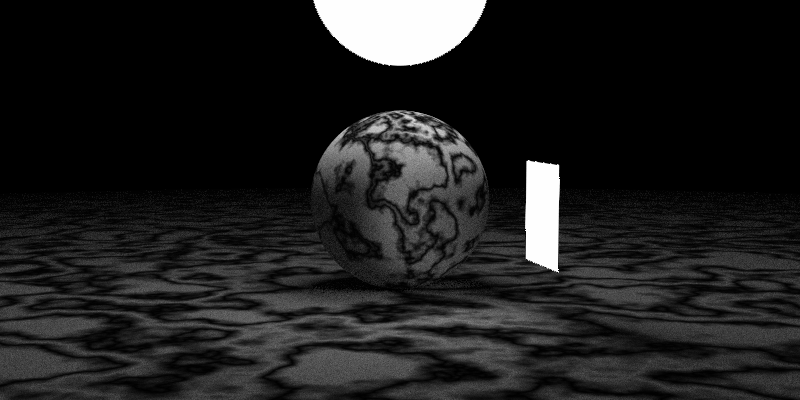
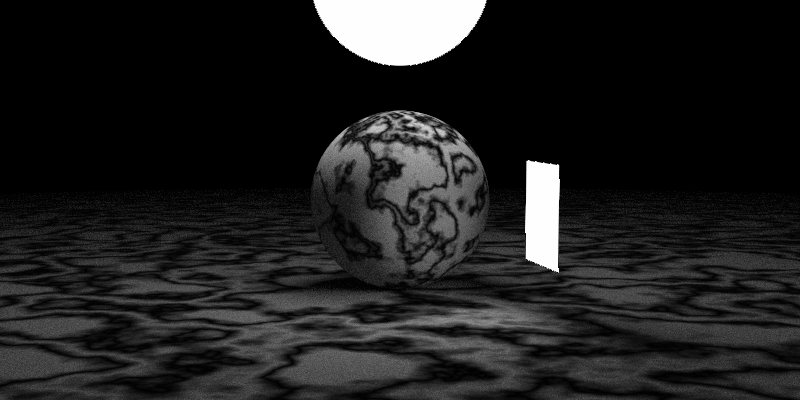
fix: transform geometry

Changed region(s): [[0.5, 0.42, 0.5938, 0.63], [0.5625, 0.78, 0.6562, 0.81]]

diff --git a/ray-tracing-core/include/math/rectangle.h b/ray-tracing-core/include/math/rectangle.h
@@ -13,120 +13,120 @@
 
 namespace ray_tracing_core::math
 {
-	class Rectangle
-	{
-	public:
-		enum class Orientation : uint32_t
-		{
-			YZ=0, XZ=1, XY=2
-		};
+    class Rectangle
+    {
+    public:
+        enum class Orientation : uint32_t
+        {
+            YZ=0, XZ=1, XY=2
+        };
 
-		Orientation orientation;
-		Distance k;
-		DistanceRange rangeA;
-		DistanceRange rangeB;
+        Orientation orientation;
+        Distance k;
+        DistanceRange rangeA;
+        DistanceRange rangeB;
 
-		inline static Rectangle new_rectangle(Orientation orientation, Distance k, const Point2D& a, const Point2D& b);
-		inline AxisAlignedBoundingBox bounding_box(void) const;
-		inline bool hit(const Ray& ray, const DistanceRange& distance_range, HitPoint& hit_point) const;
-		inline Vector3D normal_vector() const;
-		inline core::TextureCoordinate texture_coordinates(const Point3D & point_in_rectangle) const;
-		inline math::Distance area() const;
-		inline math::Vector3D random_point() const;
-	};
+        inline static Rectangle new_rectangle(Orientation orientation, Distance k, const Point2D& a, const Point2D& b);
+        inline AxisAlignedBoundingBox bounding_box(void) const;
+        inline bool hit(const Ray& ray, const DistanceRange& distance_range, HitPoint& hit_point) const;
+        inline Vector3D normal_vector() const;
+        inline core::TextureCoordinate texture_coordinates(const Point3D & point_in_rectangle) const;
+        inline math::Distance area() const;
+        inline math::Vector3D random_point() const;
+    };
 
-	Rectangle Rectangle::new_rectangle(Orientation orientation, Distance k, const Point2D& a, const Point2D& b)
-	{
-		return Rectangle
-		{
-			.orientation = orientation,
-			.k = k,
-			.rangeA = { std::min(a.x, b.x), std::max(a.x, b.x) },
-			.rangeB = { std::min(a.y, b.y), std::max(a.y, b.y) },
-		};
-	}
+    Rectangle Rectangle::new_rectangle(Orientation orientation, Distance k, const Point2D& a, const Point2D& b)
+    {
+        return Rectangle
+                {
+                        .orientation = orientation,
+                        .k = k,
+                        .rangeA = { std::min(a.x, b.x), std::max(a.x, b.x) },
+                        .rangeB = { std::min(a.y, b.y), std::max(a.y, b.y) },
+                };
+    }
 
-	AxisAlignedBoundingBox Rectangle::bounding_box(void) const
-	{
-		auto& [a0, a1] = rangeA;
-		auto& [b0, b1] = rangeB;
-		switch (orientation)
-		{
-		default:
-		case Orientation::XY: return AxisAlignedBoundingBox::new_box(Point3D{ a0, b0, k - 0.0001 }, Point3D{ a1, b1, k + 0.0001 });
-		case Orientation::YZ: return AxisAlignedBoundingBox::new_box(Point3D{ k - 0.0001, a0, b0 }, Point3D{ k + 0.0001, a1, b1 });
-		case Orientation::XZ: return AxisAlignedBoundingBox::new_box(Point3D{ a0, k - 0.0001, b0 }, Point3D{ a1, k + 0.0001, b1 });
-		}
-	}
+    AxisAlignedBoundingBox Rectangle::bounding_box(void) const
+    {
+        auto& [a0, a1] = rangeA;
+        auto& [b0, b1] = rangeB;
+        switch (orientation)
+        {
+            default:
+            case Orientation::XY: return AxisAlignedBoundingBox::new_box(Point3D{ a0, b0, k - 0.0001 }, Point3D{ a1, b1, k + 0.0001 });
+            case Orientation::YZ: return AxisAlignedBoundingBox::new_box(Point3D{ k - 0.0001, a0, b0 }, Point3D{ k + 0.0001, a1, b1 });
+            case Orientation::XZ: return AxisAlignedBoundingBox::new_box(Point3D{ a0, k - 0.0001, b0 }, Point3D{ a1, k + 0.0001, b1 });
+        }
+    }
 
-	bool Rectangle::hit(const Ray& ray, const DistanceRange& distance_range, HitPoint& hit_point) const
-	{
-		auto [from, to] = distance_range;
-		if (ray.direction[(uint32_t)orientation] == 0)
-			return false;
-		auto t = (k - ray.origin[(uint32_t)orientation]) / ray.direction[(uint32_t)orientation];
-		if (t < from || t > to)
-			return false;
+    bool Rectangle::hit(const Ray& ray, const DistanceRange& distance_range, HitPoint& hit_point) const
+    {
+        auto [from, to] = distance_range;
+        if (ray.direction[(uint32_t)orientation] == 0)
+            return false;
+        auto t = (k - ray.origin[(uint32_t)orientation]) / ray.direction[(uint32_t)orientation];
+        if (t < from || t > to)
+            return false;
 
-		auto& [a0, a1] = rangeA;
-		auto& [b0, b1] = rangeB;
-		uint32_t iA = (orientation == Orientation::YZ) ? 1 : 0;
-		uint32_t iB = (orientation == Orientation::XY) ? 1 : 2;
-		auto a = ray.origin[iA] + t * ray.direction[iA];
-		auto b = ray.origin[iB] + t * ray.direction[iB];
-		if (a < a0 || a > a1 || b < b0 || b > b1)
-			return false;
+        auto& [a0, a1] = rangeA;
+        auto& [b0, b1] = rangeB;
+        uint32_t iA = (orientation == Orientation::YZ) ? 1 : 0;
+        uint32_t iB = (orientation == Orientation::XY) ? 1 : 2;
+        auto a = ray.origin[iA] + t * ray.direction[iA];
+        auto b = ray.origin[iB] + t * ray.direction[iB];
+        if (a < a0 || a > a1 || b < b0 || b > b1)
+            return false;
 
-		hit_point.distance = t;
-		hit_point.position = ray.point_at(t);
-		hit_point.normal = normal_vector();
-		return true;
-	}
+        hit_point.distance = t;
+        hit_point.position = ray.point_at(t);
+        hit_point.normal = normal_vector();
+        return true;
+    }
 
-	Vector3D Rectangle::normal_vector() const
-	{
-		switch (orientation)
-		{
-		default:
-		case Orientation::XY: return Vector3D(0, 0, -1);
-		case Orientation::YZ: return Vector3D(-1, 0, 0);
-		case Orientation::XZ: return Vector3D(0, -1, 0);
-		}
-	}
+    Vector3D Rectangle::normal_vector() const
+    {
+        switch (orientation)
+        {
+            default:
+            case Orientation::XY: return Vector3D(0, 0, -1);
+            case Orientation::YZ: return Vector3D(-1, 0, 0);
+            case Orientation::XZ: return Vector3D(0, -1, 0);
+        }
+    }
 
-	core::TextureCoordinate Rectangle::texture_coordinates(const Point3D& point_in_rectangle) const
-	{
-		auto& [a0, a1] = rangeA;
-		auto& [b0, b1] = rangeB;
-		uint32_t iA = (orientation == Orientation::YZ) ? 1 : 0;
-		uint32_t iB = (orientation == Orientation::XY) ? 1 : 2;
-		return core::TextureCoordinate::constant
-		(
-			static_cast<math::TextureDistance>((point_in_rectangle[iA] - a0) / (a1 - a0)),
-			static_cast<math::TextureDistance>((point_in_rectangle[iB] - b0) / (b1 - b0))
-		);
-	}
+    core::TextureCoordinate Rectangle::texture_coordinates(const Point3D& point_in_rectangle) const
+    {
+        auto& [a0, a1] = rangeA;
+        auto& [b0, b1] = rangeB;
+        uint32_t iA = (orientation == Orientation::YZ) ? 1 : 0;
+        uint32_t iB = (orientation == Orientation::XY) ? 1 : 2;
+        return core::TextureCoordinate::constant
+                (
+                        static_cast<math::TextureDistance>((point_in_rectangle[iA] - a0) / (a1 - a0)),
+                        static_cast<math::TextureDistance>((point_in_rectangle[iB] - b0) / (b1 - b0))
+                );
+    }
 
-	math::Distance Rectangle::area() const
-	{
-		auto& [a0, a1] = rangeA;
-		auto& [b0, b1] = rangeB;
-		return (a1 - a0) * (b1 - b0);
-	}
+    math::Distance Rectangle::area() const
+    {
+        auto& [a0, a1] = rangeA;
+        auto& [b0, b1] = rangeB;
+        return (a1 - a0) * (b1 - b0);
+    }
 
-	math::Vector3D Rectangle::random_point() const
-	{
-		math::RandomGenerator generator;
-		auto& [a0, a1] = rangeA;
-		auto& [b0, b1] = rangeB;
-		uint32_t iA = (orientation == Orientation::YZ) ? 1 : 0;
-		uint32_t iB = (orientation == Orientation::XY) ? 1 : 2;
-		Point3D point;
-		point[iA] = a0 + (a1 - a0) * generator.random_size();
-		point[iB] = b0 + (b1 - b0) * generator.random_size();
-		point[(uint32_t)orientation] = k;
-		return point;
-	}
+    math::Vector3D Rectangle::random_point() const
+    {
+        math::RandomGenerator generator;
+        auto& [a0, a1] = rangeA;
+        auto& [b0, b1] = rangeB;
+        uint32_t iA = (orientation == Orientation::YZ) ? 1 : 0;
+        uint32_t iB = (orientation == Orientation::XY) ? 1 : 2;
+        Point3D point;
+        point[iA] = a0 + (a1 - a0) * generator.random_size();
+        point[iB] = b0 + (b1 - b0) * generator.random_size();
+        point[(uint32_t)orientation] = k;
+        return point;
+    }
 }
 
 #endif

diff --git a/ray-tracing-core/source/geometry/transform.cpp b/ray-tracing-core/source/geometry/transform.cpp
@@ -48,16 +48,13 @@ namespace ray_tracing_core::geometry
 
     math::Distance Transform::probability_density_function_value(const math::Point3D& origin, const math::Vector3D& direction) const
     {
-        //return geometry->probability_density_function_value(
-        //        math::transform(origin, inverse_model_matrix),
-        //        math::transform(direction, inverse_normal_matrix));
         return geometry->probability_density_function_value(
                 math::transform(origin, inverse_model_matrix),
-                direction);
+                math::transform(direction, inverse_normal_matrix));
     }
 
     math::Vector3D Transform::random(const math::Point3D& origin) const
     {
-        return geometry->random(math::transform(origin, inverse_model_matrix));
+        return math::transform(geometry->random(math::transform(origin, inverse_model_matrix)), normal_matrix);
     }
 }
